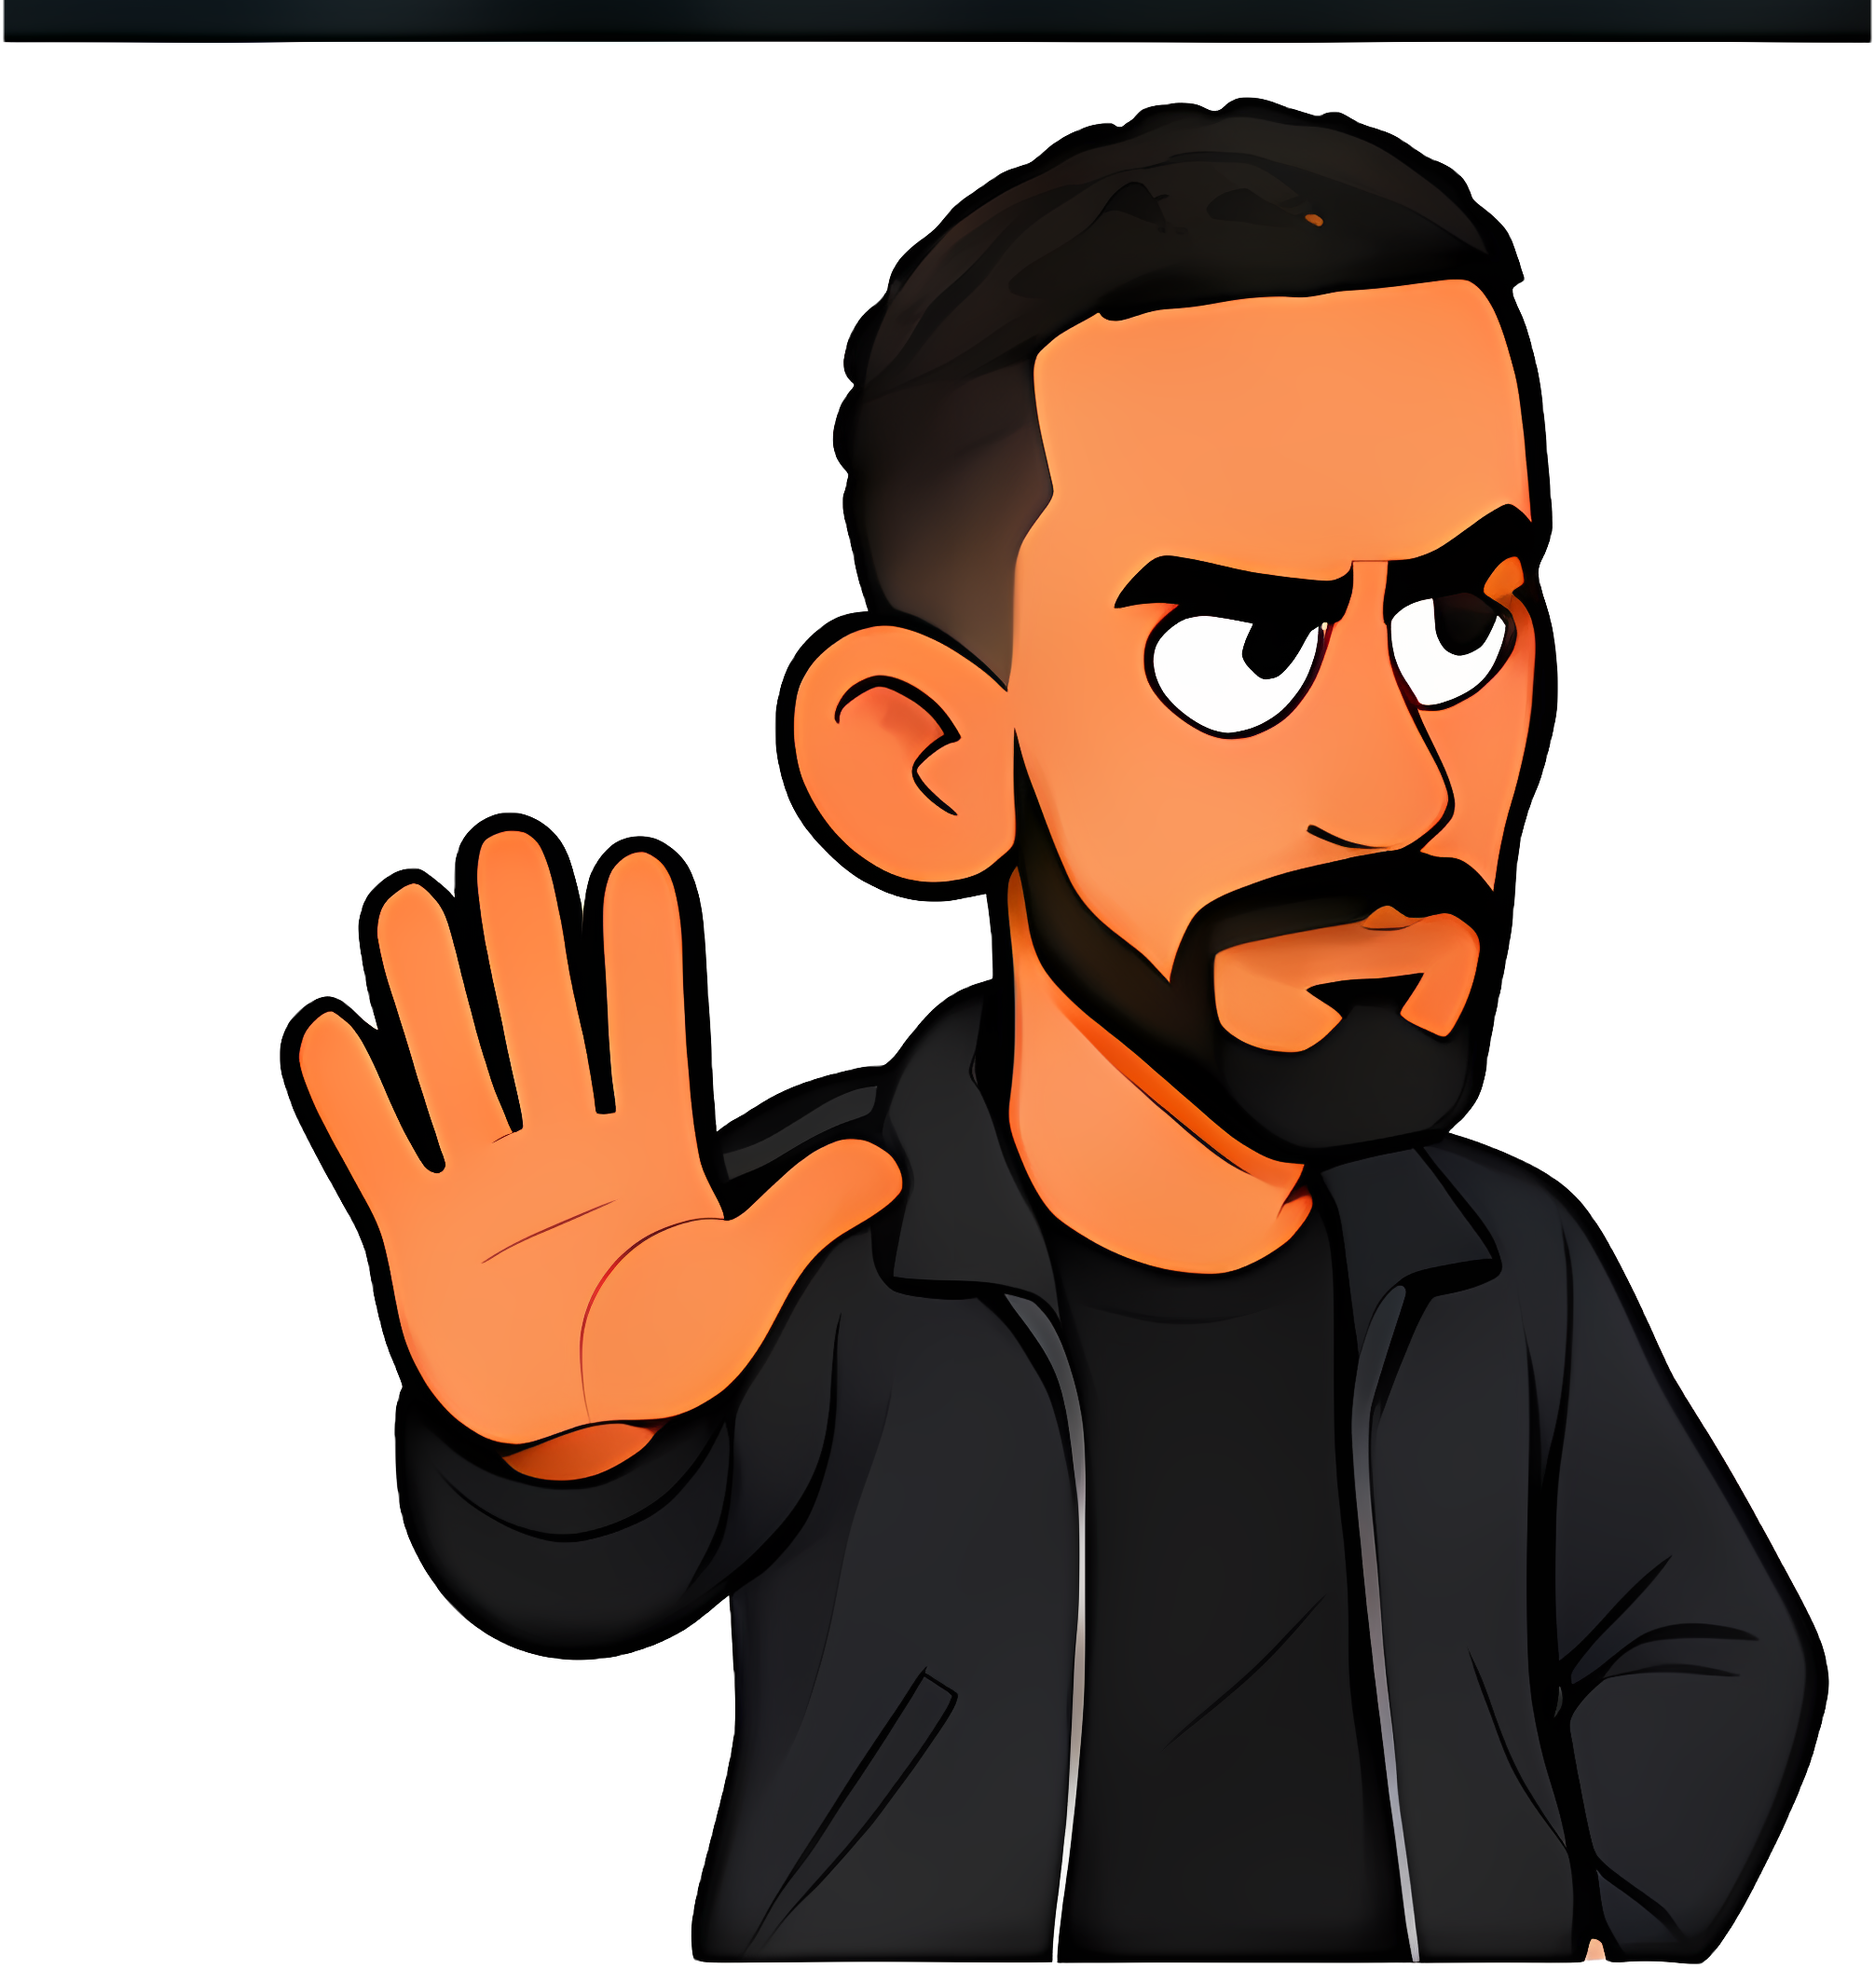
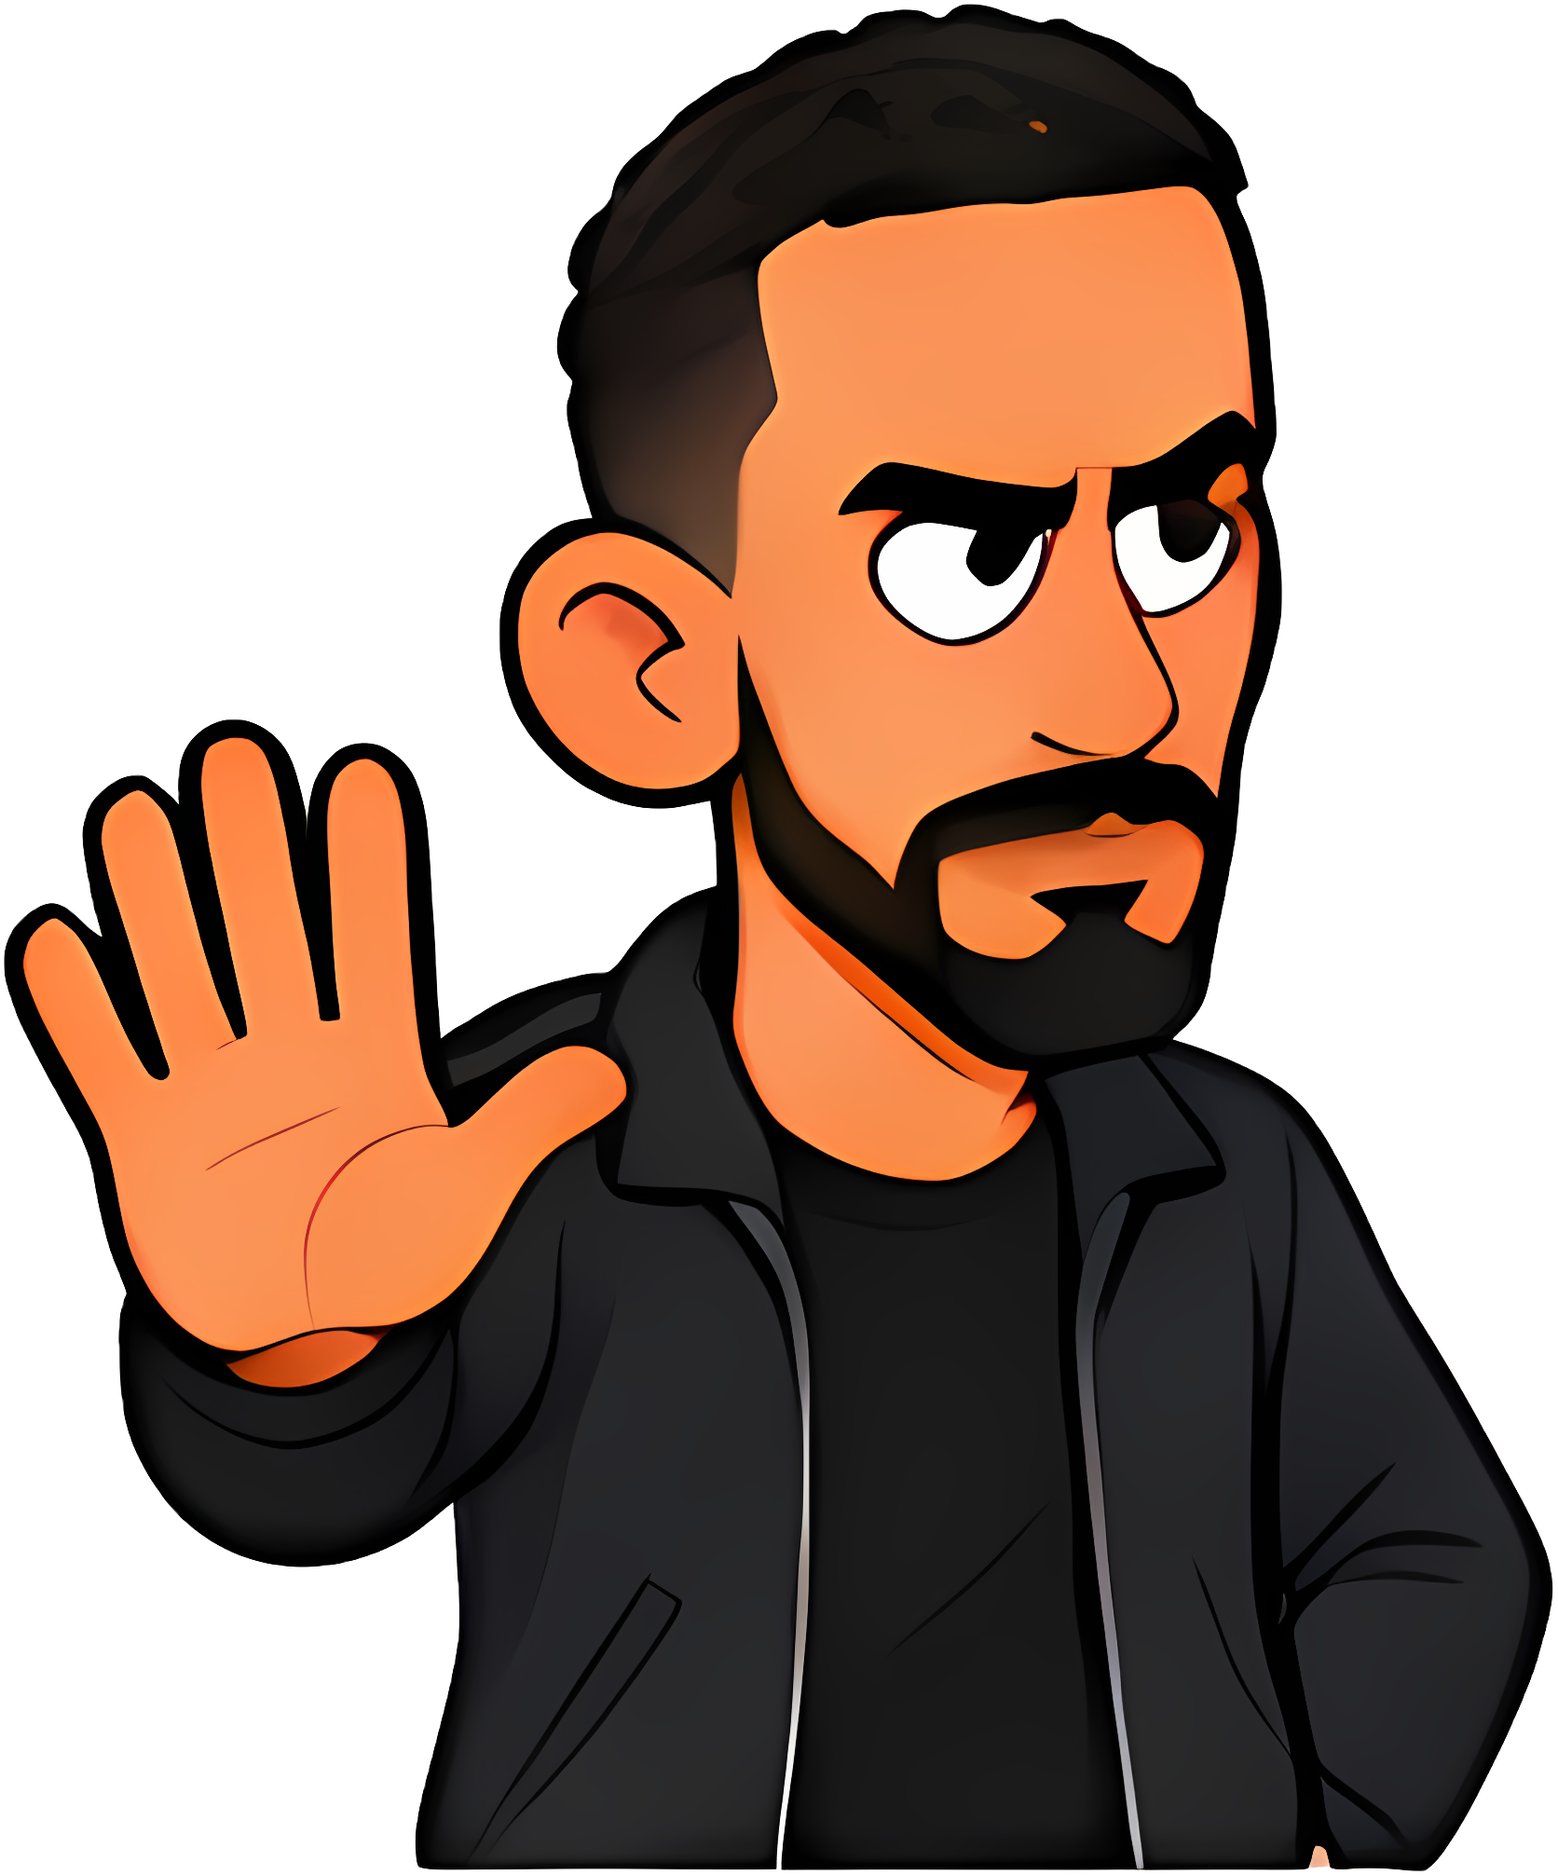
The Overcrap Daily 'Ronaldo vs Messi': Rio's mouth on his face in every drawing, gesture framing, Rio upscales
Claude-Session: https://claude.ai/code/session_01QduFdNiA7tmowakCfoxQtn

diff --git a/overcrap-daily-ronaldo-vs-messi/episode/episode.py b/overcrap-daily-ronaldo-vs-messi/episode/episode.py
@@ -84,7 +84,7 @@ def _lazy(fn, *a, **k):
 R_MED = _lazy(standing, 'roy', 'roy_stand', 0.13)
 R_CU = _lazy(standing, 'roy', 'roy_stand', 0.22)
 R_TIGHT = _lazy(standing, 'roy', 'roy_stand', 0.34)
-I_MED = _lazy(standing, 'rio', 'rio_stand', 0.19, 0.5, 0.36)
+I_MED = _lazy(standing, 'rio', 'rio_stand', 0.20, 0.5, 0.40)
 I_CU = _lazy(standing, 'rio', 'rio_stand', 0.21, 0.5, 0.40)
 I_TIGHT = _lazy(standing, 'rio', 'rio_stand', 0.29, 0.5, 0.42)
 
@@ -181,7 +181,7 @@ STAGE = {
     'RF_15': ('Ix', IU + 'folded_arms', 'head/front', []),
     'WR_09': ('Nc', NU + 'seated', 'confused', []),
     'MG_26': ('Mx', MU + 'desk_rant', 'shouting', []),
-    'RF_16': ('Ic', IU + 'folded_arms', 'head/three_quarter_right', []),
+    'RF_16': ('Ic', IU + 'folded_arms', 'side_eye', []),
     'MG_27': ('M', MU + 'both_hands_out', 'confused', [('lunar', 'Mc'), ('lunar', 'face=angry_rant')]),
     # ending: a touch faster
     'MG_28': ('M', MU + 'pointing', 'smug', [('could', 'Mc')]),
